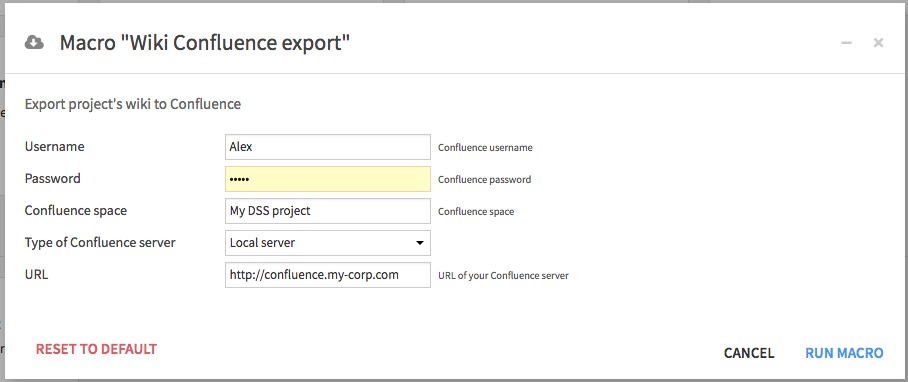
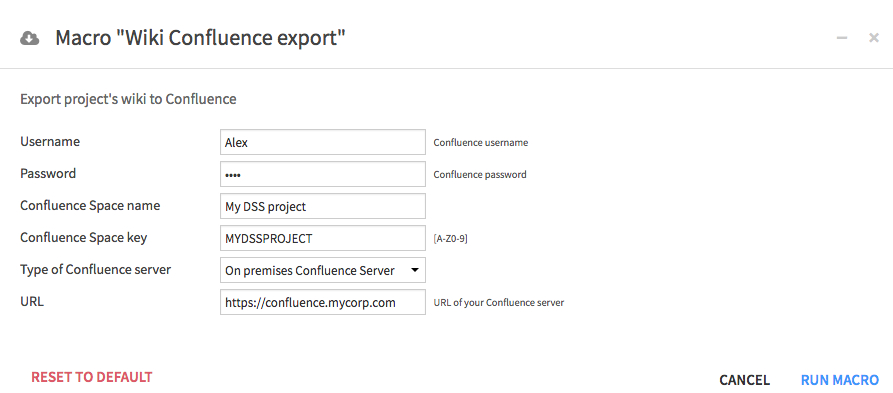
Doc updated

Changed region(s): [[0.0, 0.0, 1.0, 1.0], [0.2419, 0.3168, 0.6349, 0.8063]]

diff --git a/README.md b/README.md
@@ -1,32 +1,15 @@
 # dss-plugin-confluence
 Push your DSS wiki contents to [Confluence](https://www.atlassian.com/software/confluence)
 
-## Install in DSS
-To install **Plugin: dss-plugin-confluence** in DSS, go to *Administration > Plugins > Store* and search for the plugin name.
-
-Alternatively, [Download it]() (for DSS 6+) and follow our [installation instructions](https://doc.dataiku.com/dss/latest/plugins/installing.html)
-
-## Plugin information
-
-|   |   |
-|---|---|
-| Version  | 1.0.0 |
-| Author  | Dataiku |
-| Released  | 2019-09 |
-| Last updated  | 2019-09 |
-| License  | Apache Software License |
-| Source code  | [Github](https://github.com/dataiku/dataiku-contrib/tree/master/confluence) |
-| Reporting issues  | [Github](https://github.com/dataiku/dataiku-contrib/issues) |
-
 ## How to use
 
-You need to install the plugin in Dataiku DSS. Go to the *Administration > Plugins* page. The plugin requires the installation of a code environment.
-
-Once the plugin, navigate to the DSS project containing the wiki pages to push to Confluence. Once in the project, click on *Macro > Wiki Confluence export*
+Once the plugin installed, navigate to the DSS project containing the wiki pages to push to Confluence. Once in the project, click on *Macro > Wiki Confluence export*
 
 Fill in the following details:
+
 - Your login / password for Confluence
-- The space name in which the DSS wiki will be pushed
+- The space name, if the space has not been created yet
+- The space key in which the DSS wiki will be pushed
 - The type of server, either on premises or cloud instance
 - The url of your on premises confluence server, or
 - The organization name pointing to your Confluence cloud space
